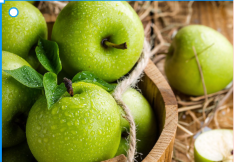
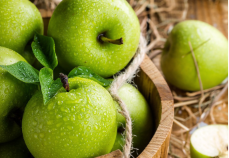
first block 'apples' is done

diff --git a/src/styles/_body.scss b/src/styles/_body.scss
@@ -1,3 +1,5 @@
+@use 'config';
+
 .grid-box {
   display: grid;
   grid-template-columns: repeat(7, 1fr);
@@ -5,6 +7,9 @@
   min-height: 100vh;
 
   & > .inner-box.start-drinking {
+    display: grid;
+    place-items: center;
+
     grid-column: 1/3;
     grid-row: 1/4;
 
@@ -12,6 +17,48 @@
     background-repeat: no-repeat;
     background-position:  center;
     background-size: cover;
+
+    & > .btns-wrapper {
+      display: flex;
+      justify-content: space-between;
+      padding: 0 clamp(5px, config.fluid-size(20), 40px);
+      width: 100%;
+
+      & > svg {
+        fill: white;
+        width: 35px;
+        aspect-ratio: 1;
+
+        transition: all 0.3s ease;
+
+        &:hover {
+          fill: black;
+          transform: scale(1.1);
+        }
+      }
+
+      .start_drink-btn {
+        display: flex;
+        justify-content: center;
+        align-items: center;
+
+        border: 1px solid white;
+        color: white;
+
+        font-size: clamp(10px, config.fluid-size(14), 20px);
+        font-family: var(--open-sans);
+        font-weight: 400;
+
+        padding: 10px 20px;
+
+        transition: all 0.3s ease;
+
+        &:hover {
+          color: black;
+          background-color: #fff;
+        }
+      }
+    }
   }
 
   & > .healthy {

diff --git a/src/components/main.html b/src/components/main.html
@@ -4,8 +4,15 @@
       <div class="inner-box start-drinking">
         <div class="btns-wrapper">
           <!-- left arrow -->
+           <svg fill="currentColor" viewBox="144 144 512 512" xmlns="http://www.w3.org/2000/svg">
+            <path d="m4e2 621.68c-122.23.0-221.68-99.441-221.68-221.68S277.761 178.32 4e2 178.32 621.68 277.761 621.68 4e2 522.239 621.68 4e2 621.68zm0-423.2c-111.12.0-201.52 90.402-201.52 201.52S288.882 601.52 4e2 601.52 601.52 511.118 601.52 4e2 511.114 198.48 4e2 198.48zm63.215 340.7c-2.5352.0-5.0664-.94531-7.0273-2.8516l-132.11-128.45c-1.9492-1.8945-3.0469-4.5039-3.0469-7.2266.0-2.7188 1.1016-5.332 3.0469-7.2266l132.11-128.45c3.9961-3.8789 10.375-3.7891 14.246.19531 3.8828 3.9883 3.793 10.375-.19531 14.246l-124.68 121.23 124.68 121.23c3.9883 3.8789 4.082 10.258.19531 14.246-1.9727 2.0312-4.5977 3.0508-7.2227 3.0508z"></path>
+          </svg>
           <!-- click btn -->
+           <button class="start_drink-btn">Start Drinking</button>
           <!-- right arrow -->
+           <svg fill="currentColor" viewBox="144 144 512 512" xmlns="http://www.w3.org/2000/svg">
+            <path d="m4e2 621.68c-122.23.0-221.68-99.441-221.68-221.68S277.761 178.32 4e2 178.32 621.68 277.761 621.68 4e2 522.239 621.68 4e2 621.68zm0-423.2c-111.12.0-201.52 90.402-201.52 201.52S288.882 601.52 4e2 601.52 601.52 511.118 601.52 4e2 511.114 198.48 4e2 198.48zm-63.219 339.39c-2.625.0-5.25-1.0195-7.2266-3.0469-3.8828-3.9883-3.793-10.375.19531-14.246l124.69-121.23-124.68-121.22c-3.9883-3.8789-4.082-10.258-.19531-14.246 3.875-3.9883 10.258-4.0742 14.246-.19531l132.11 128.45c1.9492 1.8945 3.0469 4.5039 3.0469 7.2266.0 2.7188-1.1016 5.332-3.0469 7.2266l-132.11 128.44c-1.9609 1.9062-4.4922 2.8516-7.0273 2.8516z"></path>
+          </svg>
 
         </div>
       </div>